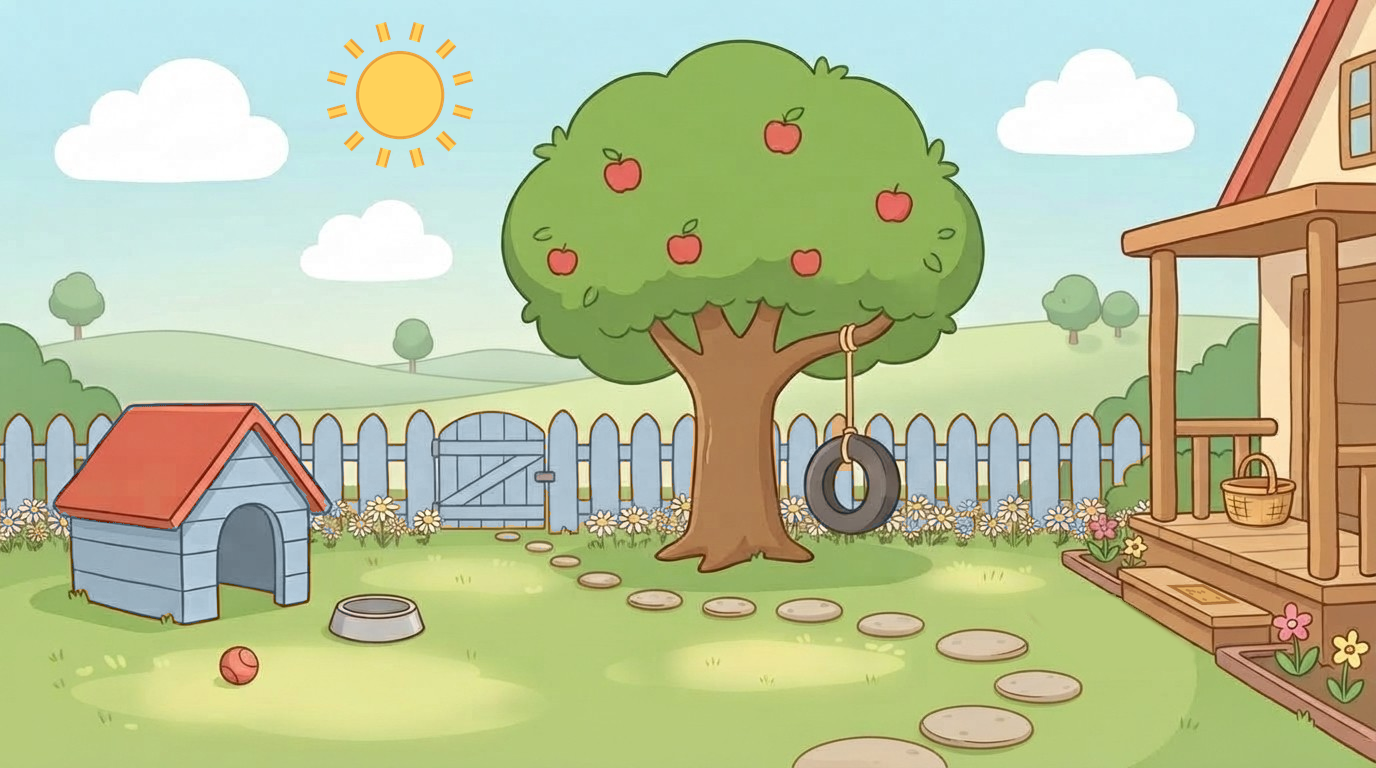
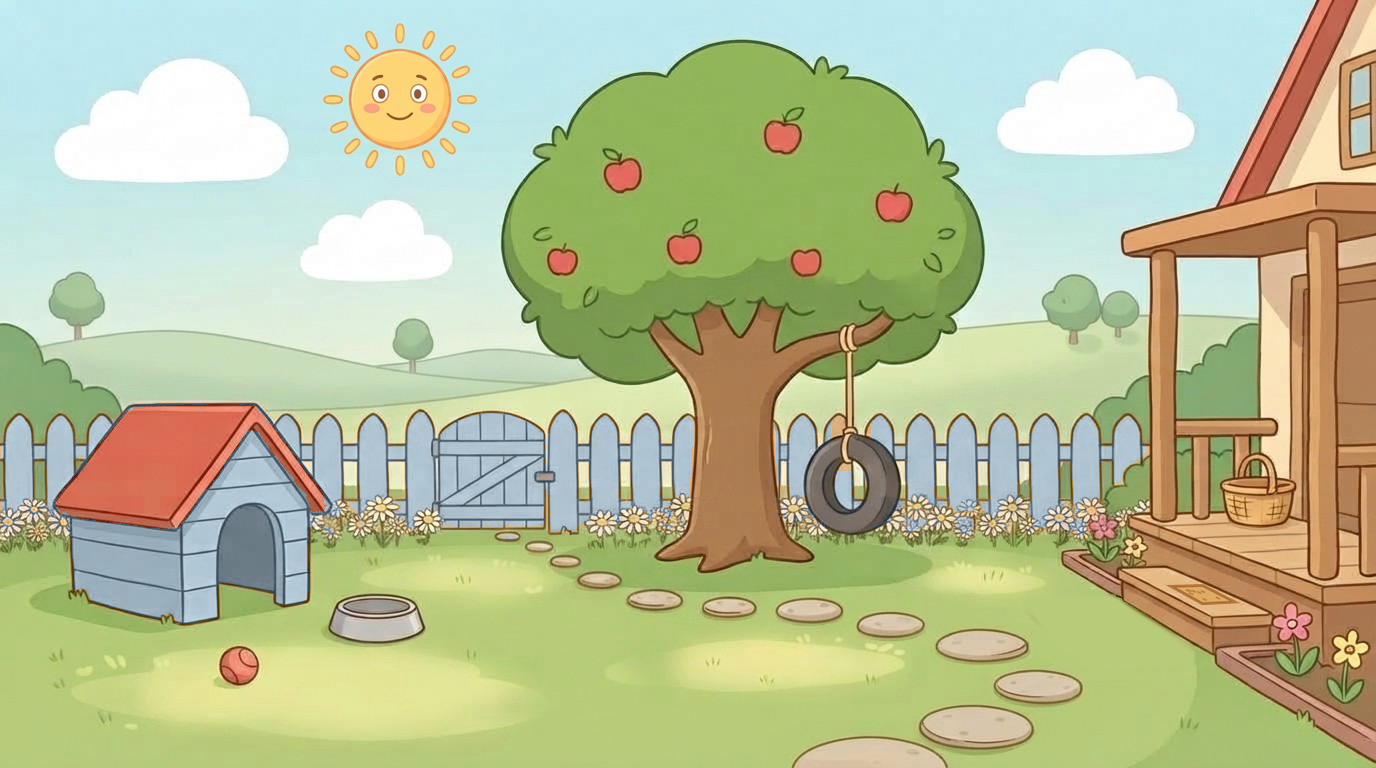
Add mood sun: six cut-out expressions, yard with sun layer, demo script
Claude-Session: https://claude.ai/code/session_01VSaJpFM8uzZE77b6PKt6ch

Changed region(s): [[0.2188, 0.0312, 0.3438, 0.2188]]

diff --git a/series/toby-i-miya/art/sun/demo.py b/series/toby-i-miya/art/sun/demo.py
@@ -1,0 +1,32 @@
+import numpy as np, math, imageio
+from PIL import Image
+yard = Image.open('yard/yard_v5.png').convert('RGB')
+orig = Image.open('../images/22.jpg').convert('RGB')
+yard.paste(orig.crop((300,0,500,200)),(300,0))   # remove my old sun
+yard.save('sun/yard_nosun.png')
+names=['smile','joy','worried','sad','sleepy','wink']
+suns={n:Image.open(f'sun/sun_{n}.png') for n in names}
+CX,CY,SCALE=400,100,0.5
+def place(img, sun, scale):
+    s=sun.resize((int(sun.width*scale),int(sun.height*scale)),Image.LANCZOS)
+    img.alpha_composite(s,(int(CX-s.width/2),int(CY-s.height/2)))
+# per-mood grading: (r,g,b multipliers)
+grade={'smile':(1,1,1),'joy':(1.05,1.02,0.93),'worried':(0.97,0.99,1.04),'sad':(0.9,0.95,1.08),'sleepy':(1.02,0.93,0.9),'wink':(1.04,1.01,0.95)}
+base=np.array(yard).astype(np.float32)
+def frame(a,b,t,k):
+    g=np.array(grade[a])*(1-t)+np.array(grade[b])*t
+    bg=Image.fromarray(np.clip(base*g,0,255).astype(np.uint8)).convert('RGBA')
+    breathe=SCALE*(1+0.025*math.sin(k/7))
+    la=Image.new('RGBA',bg.size,(0,0,0,0)); place(la,suns[a],breathe)
+    lb=Image.new('RGBA',bg.size,(0,0,0,0)); place(lb,suns[b],breathe)
+    mix=Image.blend(la,lb,t)
+    bg.alpha_composite(mix)
+    return np.array(bg.convert('RGB').resize((1376//2*2,768)))
+w=imageio.get_writer('sun/sun_moods_demo.mp4',fps=25,codec='libx264',quality=8,macro_block_size=8)
+seq=names+['smile']; k=0
+for i in range(len(seq)-1):
+    for _ in range(45): w.append_data(frame(seq[i],seq[i],0,k)); k+=1
+    for j in range(15): w.append_data(frame(seq[i],seq[i+1],(j+1)/15,k)); k+=1
+w.close()
+Image.fromarray(frame('smile','smile',0,0)).save('sun/yard_with_sun.png')
+print('ok',k)

diff --git a/series/toby-i-miya/art/sun/cut.py b/series/toby-i-miya/art/sun/cut.py
@@ -1,0 +1,31 @@
+import numpy as np, cv2
+from PIL import Image
+im = cv2.cvtColor(cv2.imread('../images/23.jpg'), cv2.COLOR_BGR2RGB).astype(np.float32)
+centers = {'smile':(259,211),'joy':(687,209),'worried':(1117,209),'sad':(259,577),'sleepy':(691,574),'wink':(1115,577)}
+R = 168
+for name,(cx,cy) in centers.items():
+    crop = im[cy-R:cy+R, cx-R:cx+R].copy()
+    if name=='sad':  # cloud sticks out lower-left; widen crop
+        pass
+    h,w,_ = crop.shape
+    mn = crop.min(axis=2)
+    # background: near-white connected to border
+    near = (mn > 225).astype(np.uint8)
+    ff = near.copy(); mask = np.zeros((h+2,w+2),np.uint8)
+    bg = np.zeros((h,w),bool)
+    for seed in [(0,0),(w-1,0),(0,h-1),(w-1,h-1)]:
+        m = np.zeros((h+2,w+2),np.uint8)
+        cv2.floodFill(ff.copy(), m, seed, 2, 0, 0, flags=4|(1<<8)|cv2.FLOODFILL_MASK_ONLY)
+        bg |= m[1:-1,1:-1].astype(bool)
+    # soft alpha in and near the background: colour-to-alpha against white
+    a_ctw = np.clip((255 - mn) / 255 * 1.0, 0, 1)
+    a_ctw = np.clip(a_ctw*2.2, 0, 1)
+    ring = cv2.dilate(bg.astype(np.uint8), np.ones((3,3),np.uint8)).astype(bool)
+    alpha = np.ones((h,w),np.float32)
+    alpha[ring] = a_ctw[ring]
+    # unpremultiply against white
+    a3 = np.maximum(alpha[...,None],1e-3)
+    rgb = np.clip((crop - 255*(1-a3))/a3, 0, 255)
+    out = np.dstack([rgb, alpha*255]).astype(np.uint8)
+    Image.fromarray(out,'RGBA').save(f'sun/sun_{name}.png')
+print('ok')
